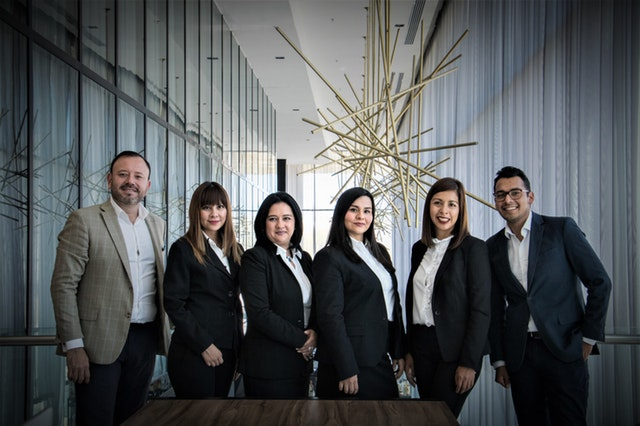
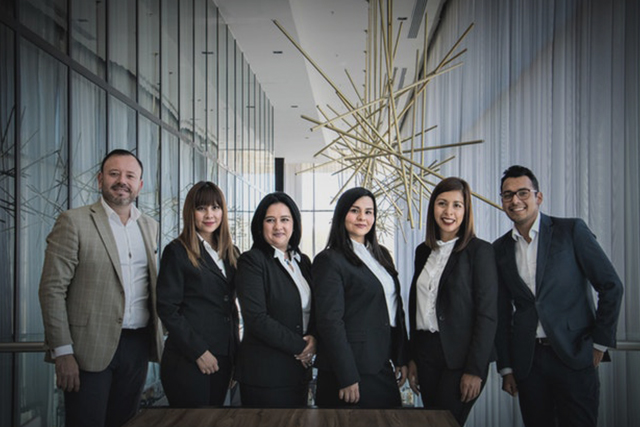
May 31, from home

diff --git a/index.html b/index.html
@@ -18,7 +18,7 @@
 	<!-- External CSS -->
 	<link rel="stylesheet" type="text/css" href="assets/css/style.css">
 
-	<title>Bryant Stibel</title>
+	<title>Hewlett and Stibel</title>
 </head>
 <body>
 
@@ -29,7 +29,7 @@
 			<nav class="navbar navbar-expand-lg py-3">
 				<div class="container">
 
-					<a href="index.html" class="navbar-brand align-self-center p-off-white mt-2 brand-opacity"><h2>Bryant Stibel</h2></a>
+					<a href="index.html" class="navbar-brand align-self-center p-off-white mt-2 brand-opacity"><h2>Hewlett and Stibel</h2></a>
 
 					<button class="navbar-toggler" type="button" data-toggle="collapse" data-target="#mainNav" aria-controls="mainNav" aria-expanded="false" aria-label="Toggle navigation">
 						<i class="fas fa-bars display-5 hamburger-color"></i>
@@ -75,7 +75,7 @@
 								<h1 class="display-4 text-white my-4 d-none d-sm-block d-md-none">We take care of your legal matters by heart</h1>
 
 								<!-- For xs screens -->
-								<h1 class="display-4 text-white my-4 d-sm-none">We take care of your legal matters by heart</h1>
+								<h1 class="display-5 text-white my-4 d-sm-none">We take care of your legal matters by heart</h1>
 
 								<p class="p-off-white"><em>Duis aute irure dolor in reprehenderit in voluptate velit esse
 								cillum dolore eu fugiat nulla pariatur. Excepteur sint occaecat cupidatat non
@@ -98,7 +98,7 @@
 			<nav class="navbar navbar-expand-lg py-3">
 				<div class="container">
 
-					<a href="index.html" class="navbar-brand align-self-center p-off-white mt-2 brand-opacity"><h2>Bryant Stibel</h2></a>
+					<a href="index.html" class="navbar-brand align-self-center p-off-white mt-2 brand-opacity"><h2>Hewlett and Stibel</h2></a>
 
 					<button class="navbar-toggler" type="button" data-toggle="collapse" data-target="#mainNav" aria-controls="mainNav" aria-expanded="false" aria-label="Toggle navigation">
 						<i class="fas fa-bars display-5" style="font-size: 27px; color: #510000;"></i>
@@ -145,7 +145,7 @@
 								<h1 class="display-4 text-white my-4 d-none d-md-none">We take care of your legal matters by heart</h1>
 
 								<!-- For xs screens -->
-								<h1 class="display-4 text-white my-4 d-sm-none">We take care of your legal matters by heart</h1>
+								<h1 class="display-5 text-white my-4 d-sm-none">We take care of your legal matters by heart</h1>
 
 								<p class="p-off-white"><em>Duis aute irure dolor in reprehenderit in voluptate velit esse
 								cillum dolore eu fugiat nulla pariatur. Excepteur sint occaecat cupidatat non
@@ -180,31 +180,25 @@
 
 			<!-- 3-column section -->
 			<div class="col-sm-12 col-md-4 col-lg-4 text-center">
-				<div style="height: 180px; width: 100%; background-color :#666; box-shadow: -1px 1px 1px #969685;">
-					
-				</div>
+				<img src="assets/images/col-1.jpg" class="img-style">
 
 				<h4 class="heading-color mb-2 mt-4">First column</h4>
 
-				<p class="text-secondary">Lorem ipsum dolor sit amet, consectetur adipisicing elit, sed do eiusmod
+				<p class="text-secondary margin-botton-xs-sm">Lorem ipsum dolor sit amet, consectetur adipisicing elit, sed do eiusmod
 				tempor.</p>
 			</div> <!-- end col 4 -->
 
 			<div class="col-sm-12 col-md-4 col-lg-4 text-center">
-				<div style="height: 180px; width: 100%; background-color :#666; box-shadow: -1px 1px 1px #969685;">
-					
-				</div>
+				<img src="assets/images/col-2.jpg" class="img-style">
 
 				<h4 class="heading-color mb-2 mt-4">Second column</h4>
 
-				<p class="text-secondary">Lorem ipsum dolor sit amet, consectetur adipisicing elit, sed do eiusmod
+				<p class="text-secondary margin-botton-xs-sm">Lorem ipsum dolor sit amet, consectetur adipisicing elit, sed do eiusmod
 				tempor.</p>
 			</div> <!-- end col 4 -->
 
 			<div class="col-sm-12 col-md-4 col-lg-4 text-center">
-				<div style="height: 180px; width: 100%; background-color :#666; box-shadow: -1px 1px 1px #969685;">
-					
-				</div>
+				<img src="assets/images/col-3.jpg" class="img-style">
 
 				<h4 class="heading-color mb-2 mt-4">Third column</h4>
 
@@ -212,7 +206,7 @@
 				tempor.</p>
 			</div> <!-- end col 4 -->
 
-			<div class="col-lg-12 mt-4 text-center">
+			<div class="col-lg-12 mt-md-4 mt-sm-1 mt-1 text-center">
 				<hr/>
 
 				<!-- For lg and xl screens -->
@@ -223,9 +217,7 @@
 			</div>
 
 			<div class="col-md-5 col-lg-5 d-none d-lg-block">
-				<div style="height: 220px; width: 100%; background-color :#666; box-shadow: -1px 1px 1px #969685;">
-					
-				</div>
+				<img src="assets/images/group.jpeg" class="group-img-style">
 			</div>
 
 			<!-- For lg and xl screens -->
@@ -241,9 +233,9 @@
 				tempor incididunt. Lorem ipsum dolor sit amet.</p>
 			</div>
 
-			<!-- For md sm and screens -->
+			<!-- For md and sm screens -->
 			<div class="col-12 d-none d-sm-block d-lg-none">
-				<img class="d-inline float-left mr-3" src="assets/images/group.jpeg"/ style="width: 280px; height: auto;">
+				<img class="d-inline float-left mr-3" src="assets/images/group.jpeg" style="width: 290px; height: auto;" />
 
 				<p class="d-inline text-secondary">Lorem ipsum dolor sit amet, consectetur adipisicing elit, sed do eiusmod tempor incididunt ut labore et dolore magna aliqua. Ut enim ad minim veniam, quis nostrud exercitation ullamco laboris nisi ut aliquip ex ea commodo consequat. Lorem ipsum dolor sit amet, consectetur adipisicing elit, sed do eiusmod tempor incididunt ut labore et dolore magna aliqua.<br/><br/> Lorem ipsum dolor sit amet, consectetur adipisicing elit, sed do eiusmod
 				tempor incididunt ut labore et dolore magna aliqua. Lorem ipsum dolor sit amet, consectetur adipisicing elit, sed do eiusmod

diff --git a/meet.html b/meet.html
@@ -28,7 +28,7 @@
 			<nav class="navbar navbar-expand-lg py-3">
 				<div class="container">
 
-					<a href="index.html" class="navbar-brand align-self-center p-off-white mt-2 brand-opacity"><h2>Bryant Stibel</h2></a>
+					<a href="index.html" class="navbar-brand align-self-center p-off-white mt-2 brand-opacity"><h2>Hewlett and Stibel</h2></a>
 
 					<button class="navbar-toggler" type="button" data-toggle="collapse" data-target="#mainNav" aria-controls="mainNav" aria-expanded="false" aria-label="Toggle navigation">
 						<i class="fas fa-bars display-5 hamburger-color"></i>
@@ -74,7 +74,7 @@
 								<h1 class="display-4 text-white my-4 d-none d-sm-block d-md-none">Meet the bright people behind the firm</h1>
 
 								<!-- For xs screens -->
-								<h1 class="display-4 text-white my-4 d-sm-none">Meet the bright people behind the firm</h1>
+								<h1 class="display-5 text-white my-4 d-sm-none">Meet the bright people behind the firm</h1>
 
 								<p class="p-off-white"><em>Duis aute irure dolor in reprehenderit in voluptate velit esse
 								cillum dolore eu fugiat nulla pariatur. Excepteur sint occaecat cupidatat non
@@ -97,7 +97,7 @@
 			<nav class="navbar navbar-expand-lg py-3">
 				<div class="container">
 
-					<a href="index.html" class="navbar-brand align-self-center p-off-white mt-2 brand-opacity"><h2>Bryant Stibel</h2></a>
+					<a href="index.html" class="navbar-brand align-self-center p-off-white mt-2 brand-opacity"><h2>Hewlett and Stibel</h2></a>
 
 					<button class="navbar-toggler" type="button" data-toggle="collapse" data-target="#mainNav" aria-controls="mainNav" aria-expanded="false" aria-label="Toggle navigation">
 						<i class="fas fa-bars display-5" style="font-size: 27px; color: #510000;"></i>
@@ -144,7 +144,7 @@
 								<h1 class="display-4 text-white my-4 d-none d-md-none">Meet the people bright behind the firm</h1>
 
 								<!-- For xs screens -->
-								<h1 class="display-4 text-white my-4 d-sm-none">Meet the bright people behind the firm</h1>
+								<h1 class="display-5 text-white my-4 d-sm-none">Meet the bright people behind the firm</h1>
 
 								<p class="p-off-white"><em>Duis aute irure dolor in reprehenderit in voluptate velit esse
 								cillum dolore eu fugiat nulla pariatur. Excepteur sint occaecat cupidatat non
@@ -178,9 +178,7 @@
 			<!-- Solo picture -->
 			<div class="col-lg-4"></div>
 			<div class="col-lg-4 text-center mb-5">
-				<div style="height: 350px; width: 100%; background-color :#666; box-shadow: -1px 1px 1px #969685;">
-					
-				</div>
+				<img src="assets/images/portrait-3.jpg" class="portrait-style">
 
 				<h4 class="heading-color mb-2 mt-4">First person</h4>
 
@@ -192,15 +190,13 @@
 			</div> <!-- end col 4 -->
 			<div class="col-lg-4"></div>
 
-			<div class="col-12 mb-5">
+			<div class="col-12 mb-5 d-none d-lg-block">
 				<hr/>
 			</div>		
 
 			<!-- 3-column section -->
 			<div class="col-lg-4 text-center mb-5 mb-sm-5 mb-md-5 mb-lg-0">			
-				<div style="height: 350px; width: 100%; background-color :#666; box-shadow: -1px 1px 1px #969685;">
-					
-				</div>
+				<img src="assets/images/portrait-1.jpg" class="portrait-style">
 
 				<h4 class="heading-color mb-2 mt-4">Second person</h4>
 
@@ -211,9 +207,7 @@
 			</div> <!-- end col 4 -->
 
 			<div class="col-lg-4 text-center mb-5 mb-sm-5 mb-md-5 mb-lg-0">
-				<div style="height: 350px; width: 100%; background-color :#666; box-shadow: -1px 1px 1px #969685;">
-					
-				</div>
+				<img src="assets/images/portrait-2.jpg" class="portrait-style">
 
 				<h4 class="heading-color mb-2 mt-4">Third person</h4>
 
@@ -224,9 +218,7 @@
 			</div> <!-- end col 4 -->
 
 			<div class="col-lg-4 text-center">
-				<div style="height: 350px; width: 100%; background-color :#666; box-shadow: -1px 1px 1px #969685;">
-					
-				</div>
+				<img src="assets/images/portrait-4.jpg" class="portrait-style">
 
 				<h4 class="heading-color mb-2 mt-4">Fourth person</h4>
 

diff --git a/assets/css/style.css b/assets/css/style.css
@@ -218,6 +218,32 @@ p {
 	color: rgba(81,0,0,0.6);
 }
 
+.img-style {
+	width: 100%;
+	height: auto;
+	background-color :#666;
+	box-shadow: -1px 1px 1px #969685;
+}
+
+.group-img-style {
+	width: 100%;
+	height: auto;
+	background-color :#666;
+	box-shadow: -1px 1px 1px #969685;
+}
+
+.portrait-style {
+	height: auto;
+	width: 100%;
+	background-color :#666;
+	box-shadow: -1px 1px 1px #969685;
+}
+
+
+
+
+/*Start of media queries*/
+
 /*For xs up to sm breakpoint*/
 @media only screen and (max-width: 576px) and (min-width: 100px) {
 	p {
@@ -289,6 +315,57 @@ p {
 		margin-bottom: 1px;
 		border-bottom: 1px solid rgba(23,23,23,0);
 		opacity: 0.8;
+	}
+}
+
+/*For xs*/
+@media only screen and (max-width: 575px) and (min-width: 100px) {
+	.img-style {
+	width: 100%;
+	height: auto;
+	background-color :#666;
+	box-shadow: -1px 1px 1px #969685;
+	}
+
+}
+
+/*for sm*/
+@media only screen and (max-width: 767px) and (min-width: 576px) {
+	.img-style {
+	width: 350px;
+	height: auto;
+	background-color :#666;
+	box-shadow: -1px 1px 1px #969685;
+	}
+
+	.group-img-style {
+	width: 10px;
+	height: auto;
+	}
+
+}
+
+@media only screen and (max-width: 767px) and (min-width: 100px) {
+	.margin-botton-xs-sm {
+		margin-bottom: 30px;
+	}
+
+	.portrait-style {
+		width: 45%;
+		height: auto;
+		background-color :#666;
+		box-shadow: -1px 1px 1px #969685;
+	}
+}
+
+
+/*MD breakpoint*/
+@media only screen and (max-width: 991px) and (min-width: 768px) {
+	.portrait-style {
+		width: 45%;
+		height: auto;
+		background-color :#666;
+		box-shadow: -1px 1px 1px #969685;
 	}
 }
 
